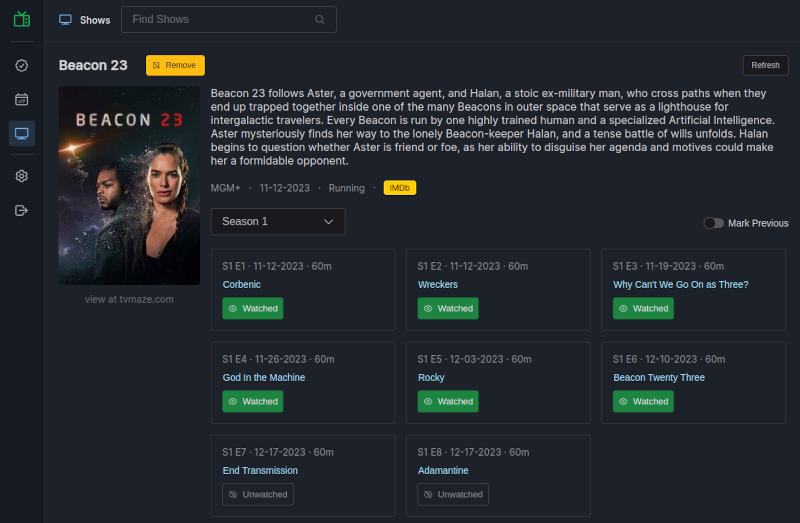
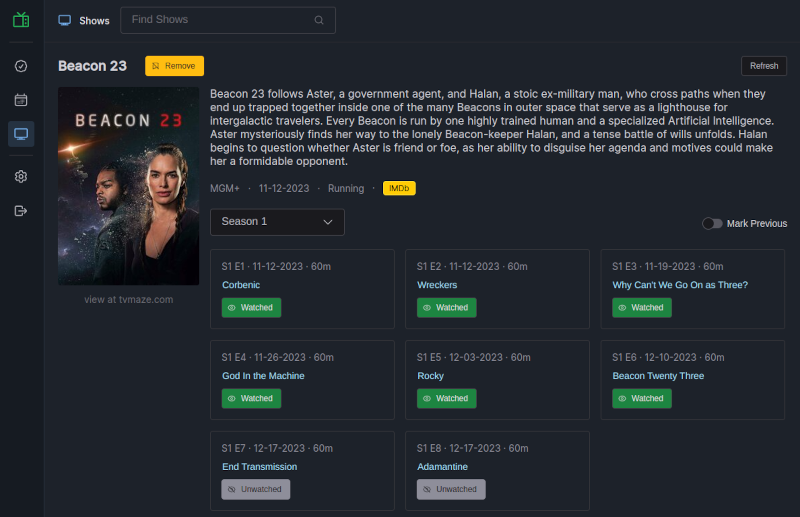
Added updated screenshots and watchlist recent to README

diff --git a/README.md b/README.md
@@ -34,9 +34,13 @@ This project is in it's early stages and there isn't currently a Docker image (y
 
 ![Screenshot of the show details screen](https://raw.githubusercontent.com/bljohnsondev/mishos/main/docs/assets/show-screenshot1.png "Show details screenshot")
 
-## Watch List
+## Watch List - Unwatched
 
-![Screenshot of the watch list screen](https://raw.githubusercontent.com/bljohnsondev/mishos/main/docs/assets/watchlist-screenshot1.png "Watch list screenshot")
+![Screenshot of the watch list unwatched screen](https://raw.githubusercontent.com/bljohnsondev/mishos/main/docs/assets/watchlist-screenshot1.png "Watch list unwatched screenshot")
+
+## Watch List - Recently Watched
+
+![Screenshot of the watch list recent screen](https://raw.githubusercontent.com/bljohnsondev/mishos/main/docs/assets/watchlist-recent-screenshot1.png "Watch list recent screenshot")
 
 ## Up Next
 
